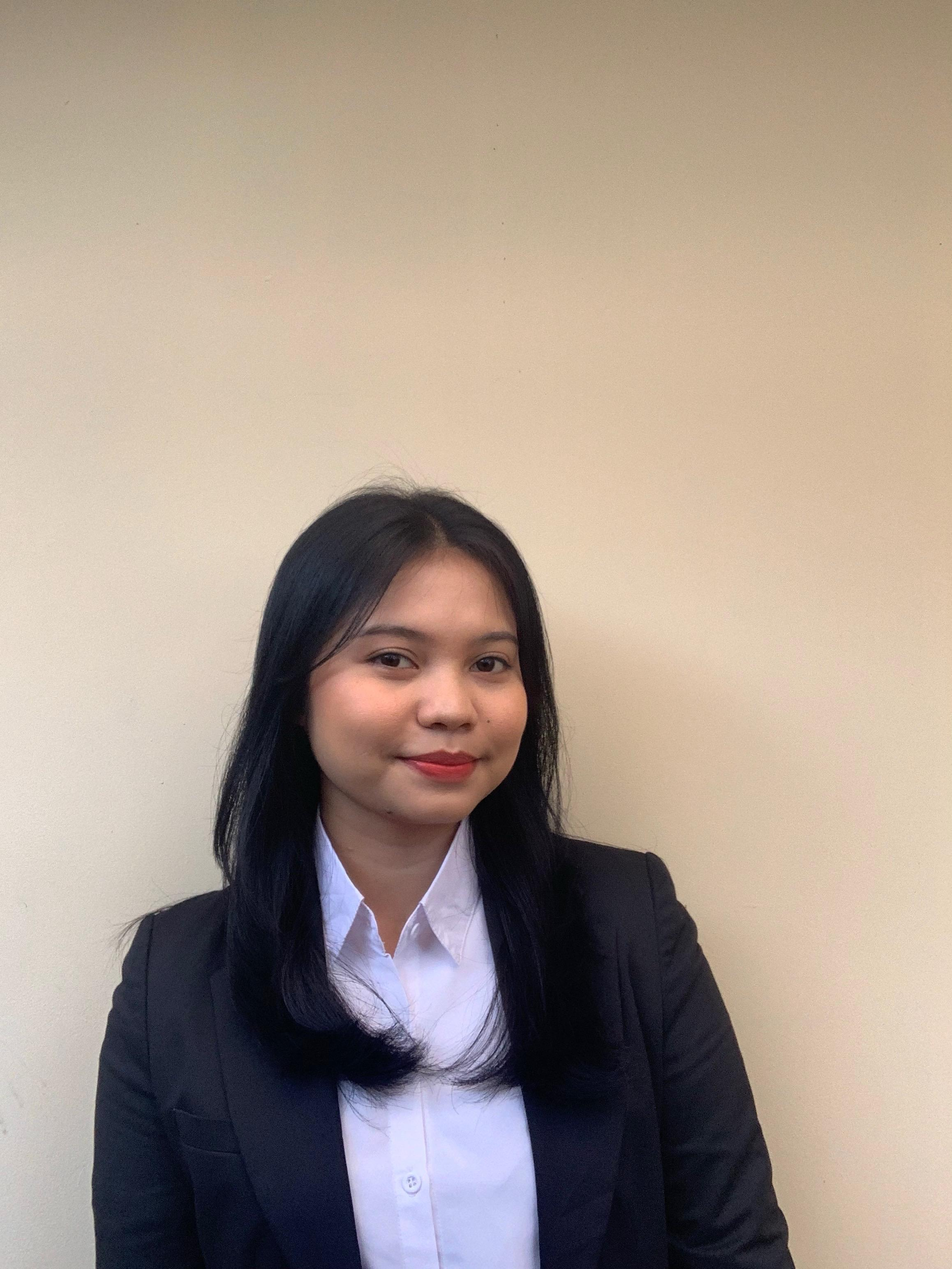
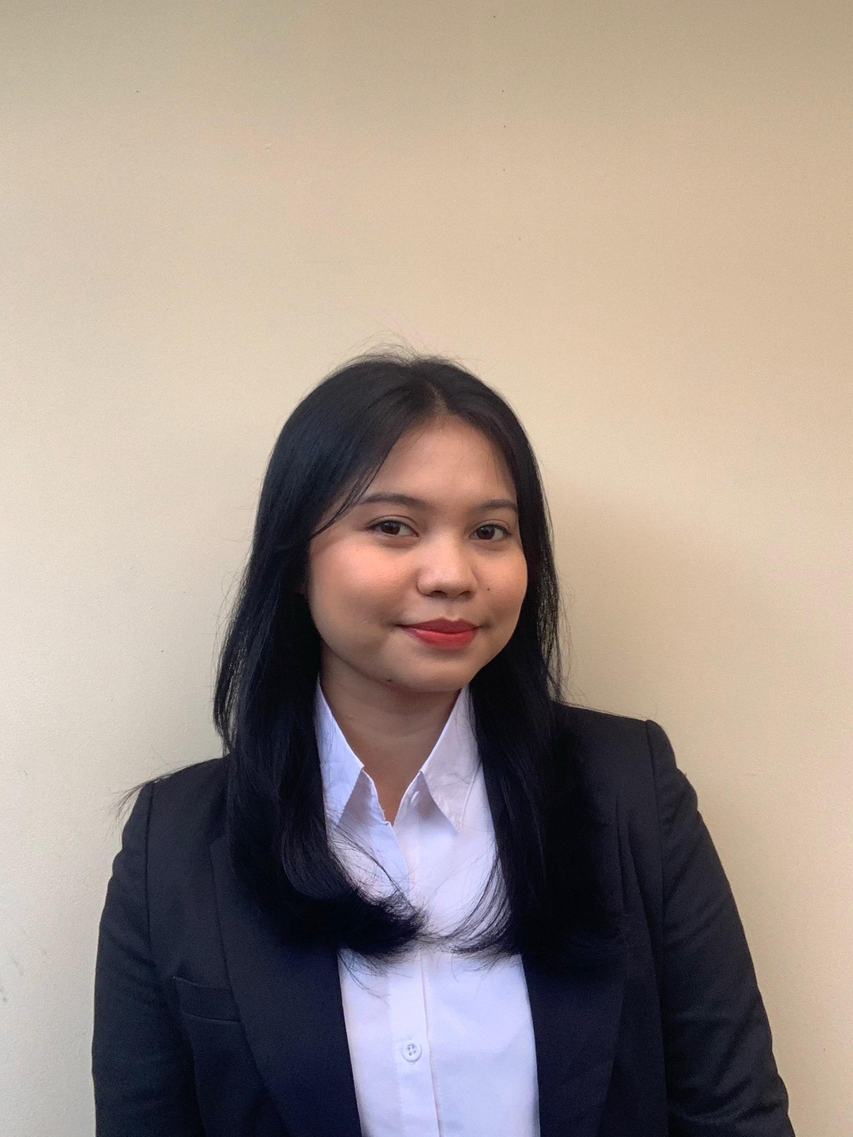
change image and about me

diff --git a/pages/about.md b/pages/about.md
@@ -8,7 +8,15 @@ weight: 3
 # **About Me**
 
 Hi I am **{{ site.author.name }}** :wave:,<br>
-A highly motivated computer science fresh graduate with over 2 years of hands-on experience in software development. I have a growing passion for data analysis and machine learning, which complements my technical background. My experience spans both the client side and the IT solution provider side, giving me a well-rounded perspective and the ability to communicate clearly and effectively across various stakeholders.
+Fresh graduate that passionate about data management and policy research, equipped with 
+strong analytical thinking and writing skills. I have gained practical experience in regulatory 
+compliance, fintech operations, and strategic documentation through my role at PT Adhyoka Berkah 
+Maju. I have demonstrated the ability to coordinate effectively with financial institutions and contribute 
+to the development of high-quality regulatory and business planning documents. I am a resilient and 
+adaptable team player with a proven track record of problem-solving in dynamic environments, and I 
+am a continuous learner committed to personal and professional growth. I also took a brief academic 
+leave due to financial and health reasons, yet remained committed and completed my degree on time in 
+8 semesters, demonstrating responsibility and perseverance. 
 
 <div class="row">
 {% include about/skills.html title="Skills" source=site.data.other-skills %}
